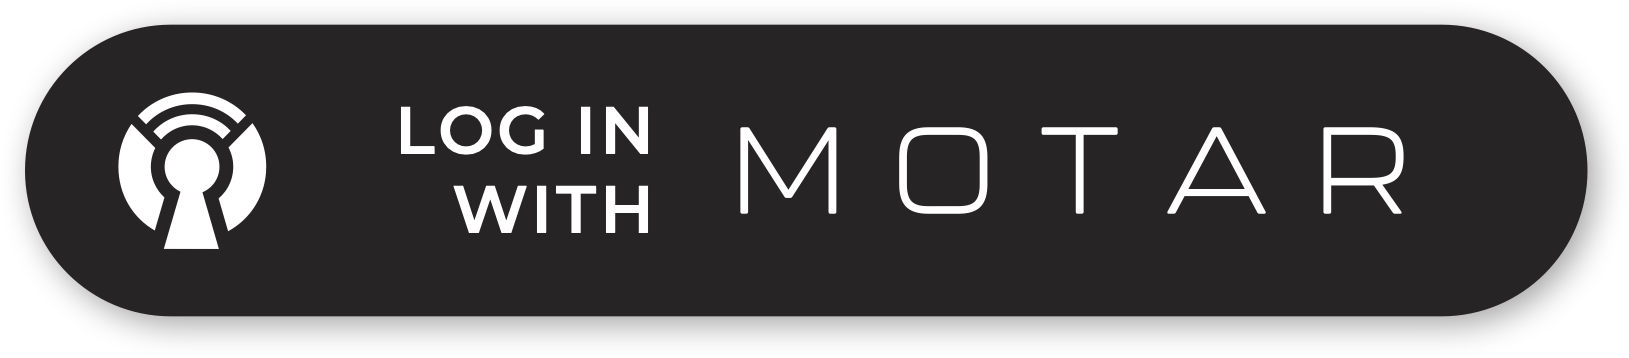
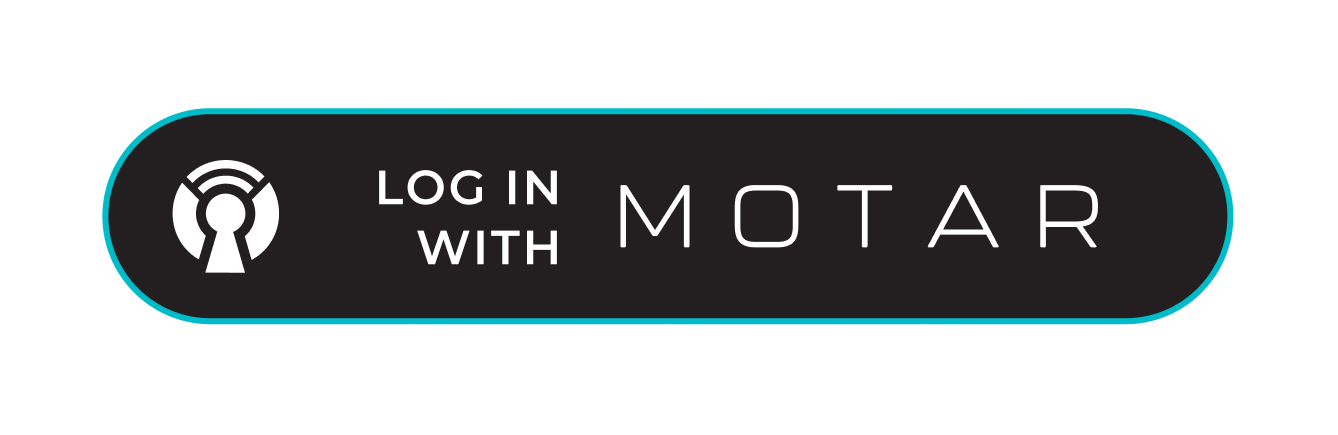
MOTAR-1427 updated SSOButtons

diff --git a/Source/DXLoginButton.swift b/Source/DXLoginButton.swift
@@ -11,11 +11,9 @@ import UIKit
 public enum DXLoginButtonImage: String {
   
     case dark = "SSOButtonDark"
+    case gradient = "SSOButtonGradient"
     case light = "SSOButtonLight"
-    case solidDark = "SSOButtonSolidDark"
-    case solidLight = "SSOButtonSolidLight"
-    case gradientDark = "SSOButtonGradientDark"
-    case gradientLight = "SSOButtonGradientLight"
+    case solid = "SSOButtonSolid"
 }
 
 //  Responsible for initializing SSO flow when tapped.
